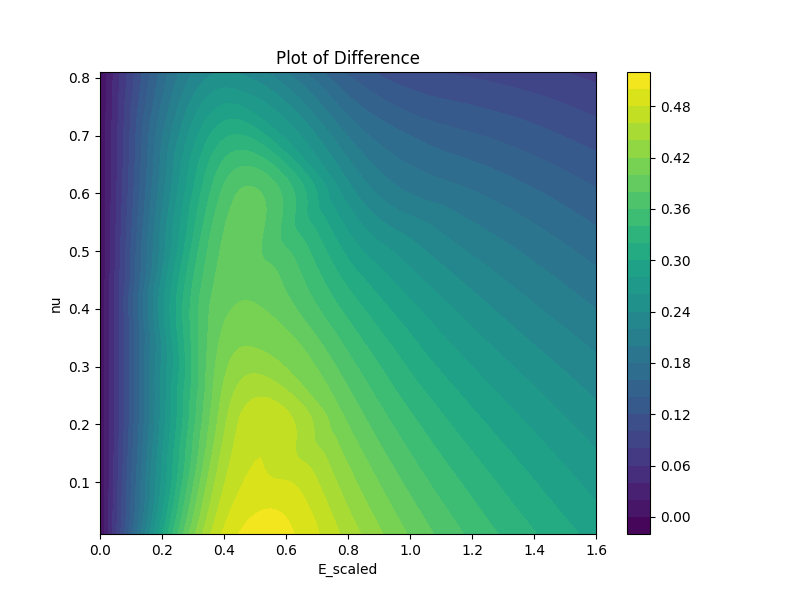
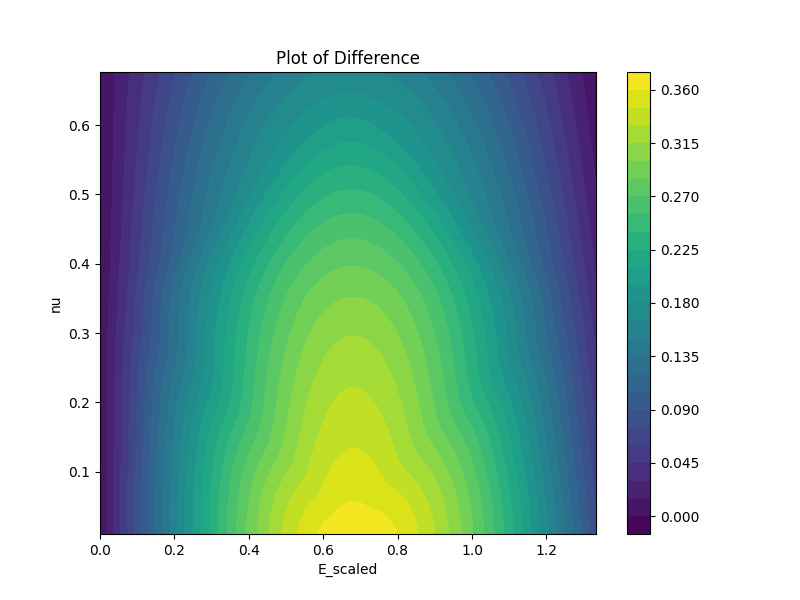
disregarding long wave limit for stability analysis

diff --git a/numerical_experiments/error_modes/smoothing_factor_all.py b/numerical_experiments/error_modes/smoothing_factor_all.py
@@ -106,7 +106,7 @@ M_eq[5,0] = theta
 M_eq[6,1] = theta
 
 #for relaxation
-gamma = 0.8
+gamma = 1#0.8
 
 
 L_mat = gamma*(M_inv*D*M_eq*M + M_inv*(I-D)*M)
@@ -114,7 +114,8 @@ L_mat = gamma*(M_inv*D*M_eq*M + M_inv*(I-D)*M)
 phi_x, phi_y = sp.symbols('phi_x phi_y')
 
 for i in range(velocity_set.q - 1):
-    L_mat[i,:] *= sp.exp(-sp.I*(phi_x * velocity_set.c[0, i+1] + phi_y * velocity_set.c[1,i+1]))
+    L_mat[i,:] = L_mat[i,:]*sp.exp(-sp.I*(phi_x * velocity_set.c[0, i+1] + phi_y * velocity_set.c[1,i+1]))
+    print("x_dir, y_dir: {} {}".format(velocity_set.c[0,i+1], velocity_set.c[1,i+1]))
 
 L_mat += (1-gamma)*I
 
@@ -146,10 +147,11 @@ for k in range(outer_iterations):
                 L_evaluated = L_mat.subs({mu: mu_val, K: K_val, phi_x: phi_x_val, phi_y: phi_y_val})
                 eigenvalues = np.linalg.eig(np.array(L_evaluated, dtype=np.complex128)).eigenvalues
                 spectral_radius = max(np.abs(ev) for ev in eigenvalues)
-                spectral_radii.append(spectral_radius)
+                if (np.abs(phi_x_val) != 0. and np.abs(phi_y_val) != 0.):
+                    spectral_radii.append(spectral_radius)
+                print("phi_x: {},  phi_y: {}, spectal radius: {}".format(phi_x_val, phi_y_val, spectral_radius))
                 if (np.abs(phi_x_val) >= 0.5*np.pi and np.abs(phi_y_val) >= 0.5*np.pi):
                     #print(spectral_radius)
-                    #print("phi_x: {},  phi_y: {}, spectal radius: {}".format(phi_x_val, phi_y_val, spectral_radius))
                     smoothing_factors.append(spectral_radius)
                 phi_x_val += (2*np.pi)/inner_iterations
             phi_y_val += (2*np.pi)/inner_iterations
@@ -159,7 +161,8 @@ for k in range(outer_iterations):
         data_difference.append((E, nu, np.max(spectral_radii) - np.max(smoothing_factors)))
         data_smoothing_normal.append((E, nu, np.max(spectral_radii)))
 
-        print(np.max(smoothing_factors))
+        print("Max amplification factor: {}".format(np.max(smoothing_factors)))
+        print("Max smoothing factor normal: {}".format(np.max(spectral_radii)))
     print("{} % complete".format((k+1)*100/outer_iterations))
 
 
@@ -224,7 +227,7 @@ plt.title('Plot of Difference')
 plt.savefig('difference.png')
 
 
-#----------------------------Plot difference to non-multigrid smoothing------------------
+#----------------------------Plot non-multigrid smoothing stability------------------
 indicator = lambda x: 10 if x > 1 else 0
 
 x = np.array([float(item[0]) for item in data_smoothing_normal])
@@ -240,7 +243,7 @@ z_grid = griddata((x, y), z, (x_grid, y_grid))
 
 # Create a 2D contour plot
 fig, ax = plt.subplots(figsize=(8, 6))
-contour = ax.contourf(x_grid, y_grid, z_grid, levels=2, cmap='viridis')
+contour = ax.contourf(x_grid, y_grid, z_grid, levels=1, cmap='viridis')
 
 
 
@@ -255,3 +258,32 @@ plt.title('Plot of Stability')
 # Show the plot
 plt.savefig('stability.png')
 
+#----------------------------Plot non-multigrid smoothing factors------------------
+
+x = np.array([float(item[0]) for item in data_smoothing_normal])
+y = np.array([float(item[1]) for item in data_smoothing_normal])
+z = np.array([float(item[2]) for item in data_smoothing_normal])
+
+# Create a grid of points
+x_grid, y_grid = np.meshgrid(np.linspace(x.min(), x.max(), 100),
+                            np.linspace(y.min(), y.max(), 100))
+
+# Interpolate the scattered data onto the grid
+z_grid = griddata((x, y), z, (x_grid, y_grid), method='cubic')
+
+# Create a 2D contour plot
+fig, ax = plt.subplots(figsize=(8, 6))
+contour = ax.contourf(x_grid, y_grid, z_grid, levels=20, cmap='viridis')
+
+
+
+# Add color bar to the plot
+plt.colorbar(contour)
+
+# Set labels
+ax.set_xlabel('E_scaled')
+ax.set_ylabel('nu')
+plt.title('Plot of Smoothing Factor normal LB')
+
+# Show the plot
+plt.savefig('normal_smoothing.png')
